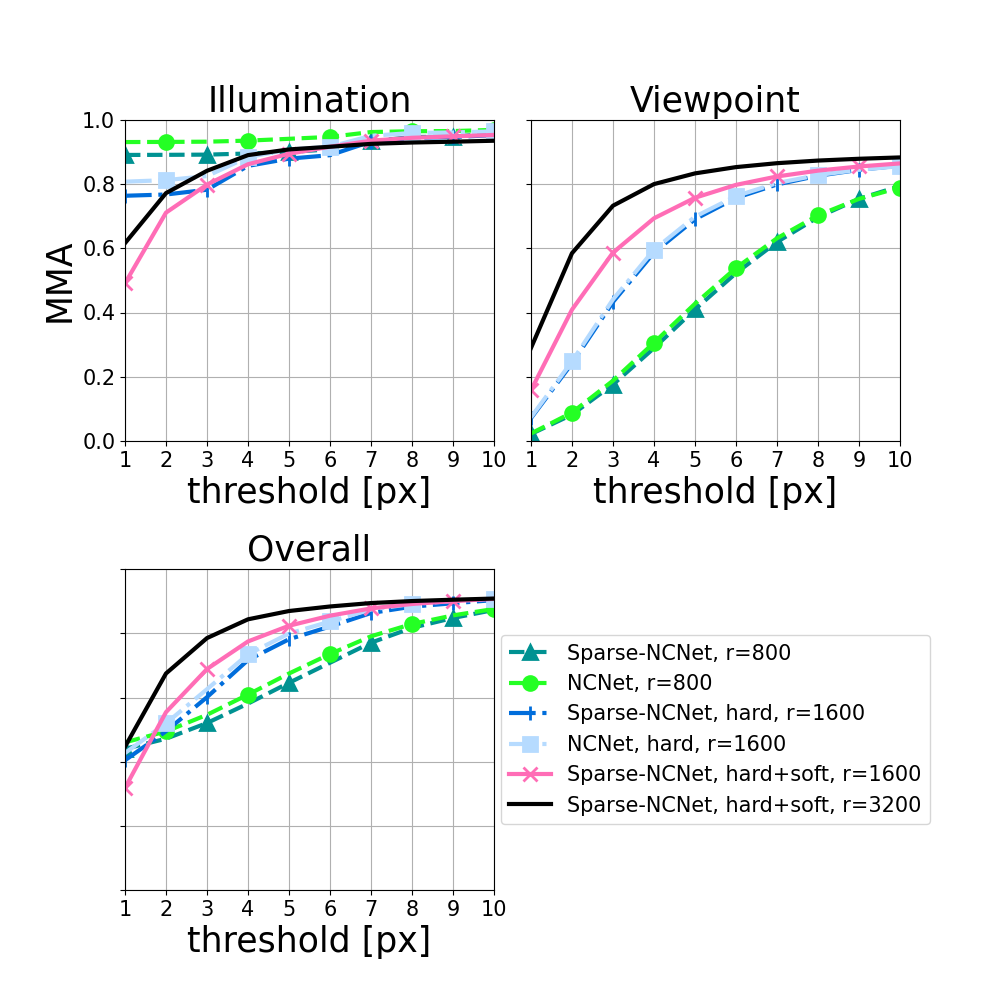
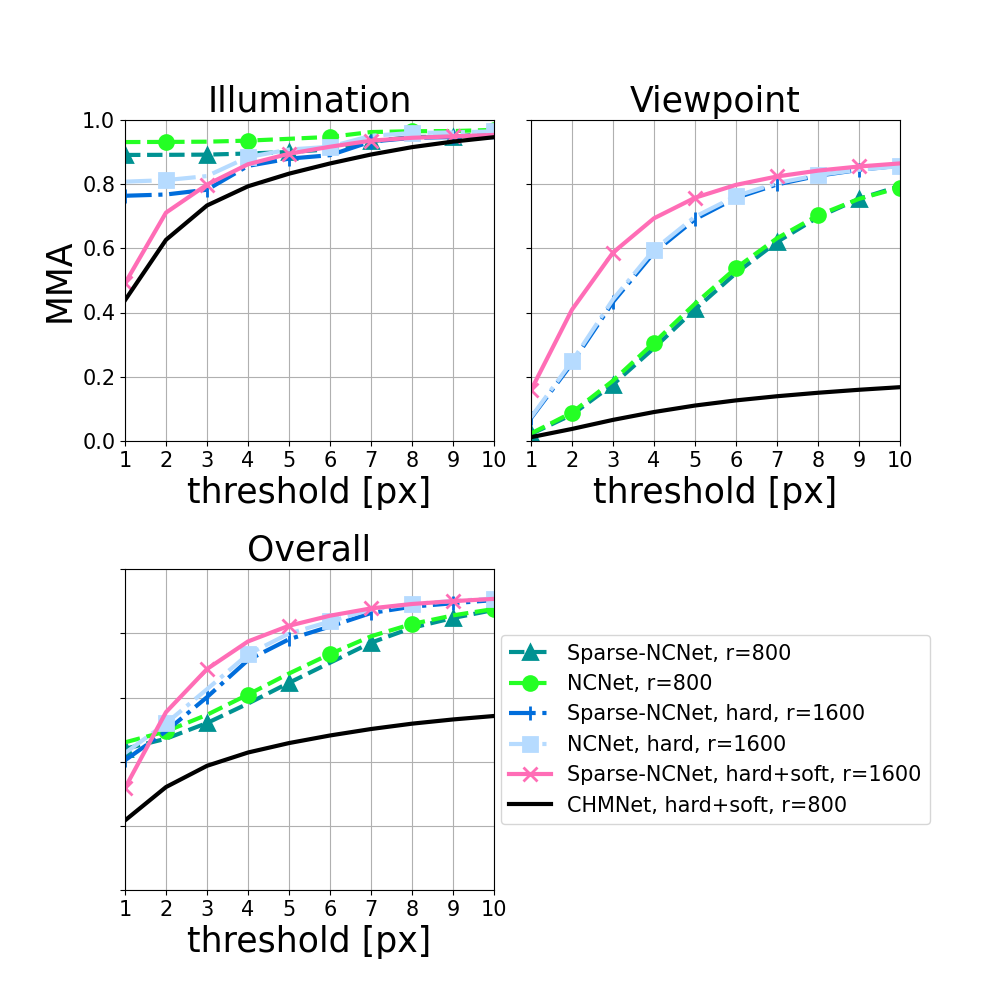
evaluating hpatches

diff --git a/eval/eval_hpatches_generate_plot.py b/eval/eval_hpatches_generate_plot.py
@@ -103,14 +103,16 @@ elif plot=='variants':
                'ncnet.sparsencnet_1600_hard_2k',
                'ncnet.densencnet_1600_hard_2k',
                'ncnet.sparsencnet_1600_hard_soft_2k',
-               'ncnet.sparsencnet_3200_hard_soft_2k']
+               'chmnet_800_hard_soft']
+               #'sparsencnet_3200_hard_soft']
+               #'chmnetnet_1200_hard_soft']
     
     names = ['Sparse-NCNet, r=800',
              'NCNet, r=800',
              'Sparse-NCNet, hard, r=1600',
              'NCNet, hard, r=1600',
              'Sparse-NCNet, hard+soft, r=1600',
-             'Sparse-NCNet, hard+soft, r=3200']
+             'CHMNet, hard+soft, r=800']
 
     markers = ['^','o','|','s','x','']
     
@@ -290,10 +292,17 @@ def summary(stats):
 # In[71]:
 
 
-def generate_read_function(method, extension='ppm'):
+def generate_read_function(method, extension='npz'):
     if method.startswith('ncnet'):
         def read_function_ncnet(seq_name, im_idx):
             aux = np.load(os.path.join(dataset_path, seq_name, '{}_{}.npz'.format(1,im_idx)+method[5:]))
+            assert('scores' in aux)
+            ids = np.argsort(aux['scores'])[-top_k :]
+            return aux['keypoints_A'][ids, :], aux['keypoints_B'][ids, :]
+        return read_function_ncnet
+    elif method.startswith('chmnet') or method.startswith('sparse'):
+        def read_function_ncnet(seq_name, im_idx):
+            aux = np.load(os.path.join(dataset_path, seq_name, '{}_{}.npz'.format(1,im_idx)+'.'+method))
             assert('scores' in aux)
             ids = np.argsort(aux['scores'])[-top_k :]
             return aux['keypoints_A'][ids, :], aux['keypoints_B'][ids, :]
@@ -356,7 +365,7 @@ for method in methods:
         read_function = lambda seq_name, im_idx: parse_mat(loadmat(os.path.join(dataset_path, seq_name, '%d.ppm.hesaff' % im_idx), appendmat=False))
     else:
         read_function = generate_read_function(method)
-    if method.startswith('ncnet'):
+    if method.startswith('ncnet') or method.startswith('sparse') or method.startswith('chmnet'):
         benchmark_function=benchmark_features_ncnet
     else:
         benchmark_function=benchmark_features

diff --git a/eval/eval_hpatches_extract.py b/eval/eval_hpatches_extract.py
@@ -10,7 +10,7 @@ from collections import OrderedDict
 import sys
 sys.path.append('..')
 
-from lib.model import ImMatchNet, MutualMatching
+from lib.model import ImMatchNet, MutualMatching, TransformNet
 from lib.normalization import imreadth, resize, normalize
 from lib.torch_util import str_to_bool
 from lib.point_tnf import normalize_axis,unnormalize_axis,corr_to_matches
@@ -30,11 +30,11 @@ use_cuda = torch.cuda.is_available()
 
 # Argument parsing
 parser = argparse.ArgumentParser()
-parser.add_argument('--checkpoint', type=str, default='../trained_models/best_2021-03-03_20:29_sparsencnet.pth.tar')
+parser.add_argument('--checkpoint', type=str, default='../trained_models/best_2021-03-04_18:04_sparsencnet.pth.tar')
 parser.add_argument('--hseq_path', type=str, default='../../data/hpatches_sequences/hpatches-sequences-release')
 parser.add_argument('--k_size', type=int, default=1)
-parser.add_argument('--image_size', type=int, default=3200)
-parser.add_argument('--experiment_name', type=str, default='sparsencnet_3200_hard_soft')
+parser.add_argument('--image_size', type=int, default=800)
+parser.add_argument('--experiment_name', type=str, default='chmnet_800_hard_soft')
 parser.add_argument('--symmetric_mode', type=str_to_bool, default=True)
 parser.add_argument('--nchunks', type=int, default=1)
 parser.add_argument('--chunk_idx', type=int, default=0)
@@ -52,7 +52,8 @@ args = parser.parse_args()
 print(args)
 
 chp_args = torch.load(args.checkpoint)['args']
-model = ImMatchNet(use_cuda=use_cuda,
+Model = TransformNet
+model = Model(use_cuda=use_cuda,
                    checkpoint=args.checkpoint,
                    ncons_kernel_sizes=chp_args.ncons_kernel_sizes,
                    ncons_channels=chp_args.ncons_channels,
